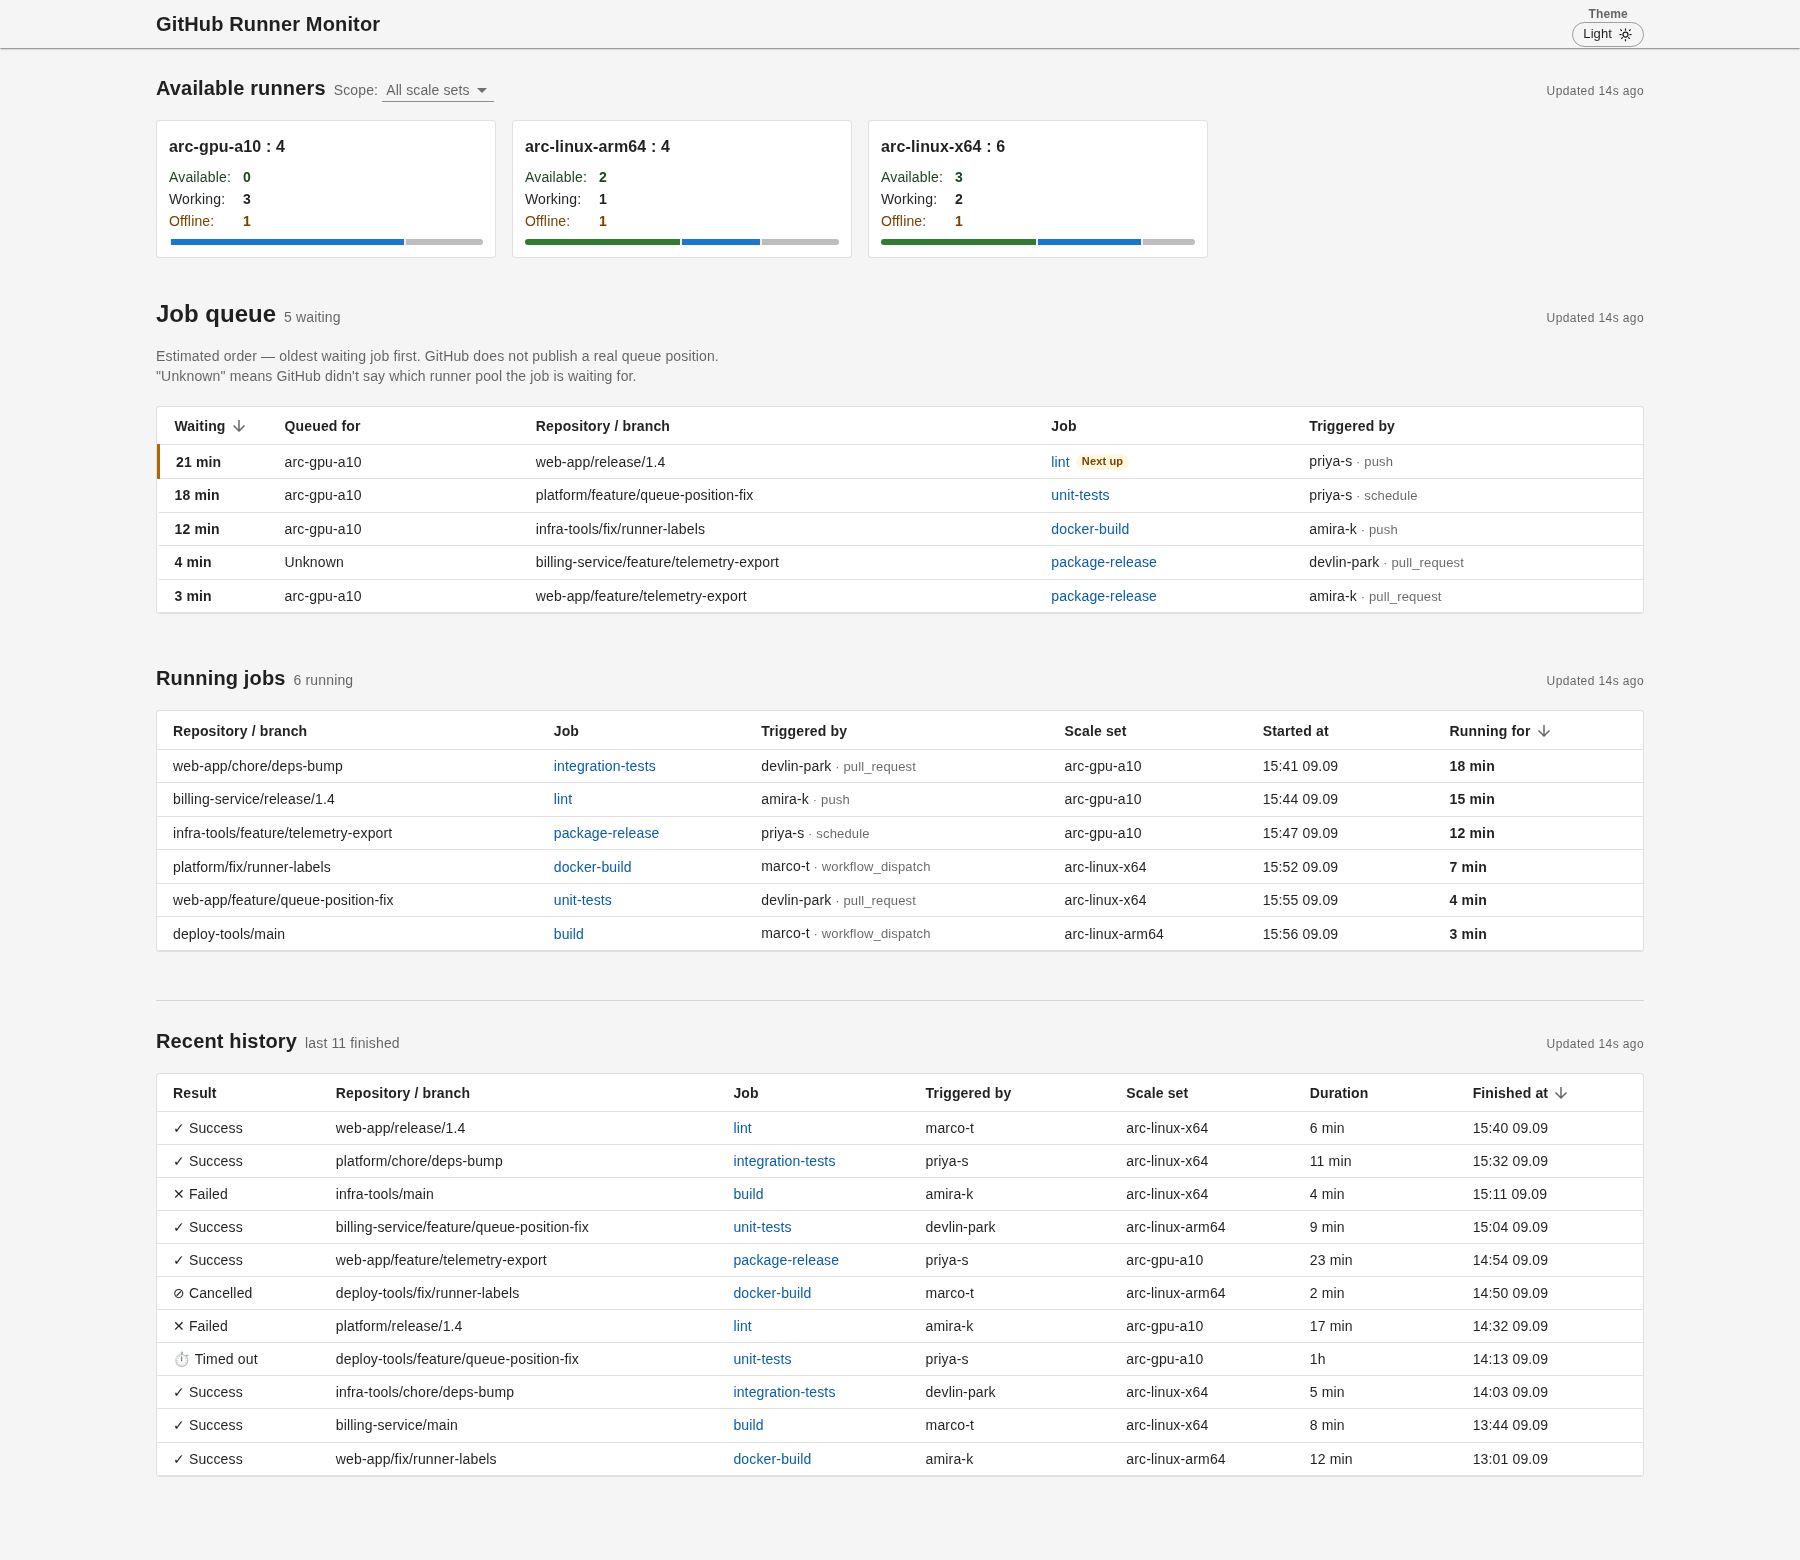
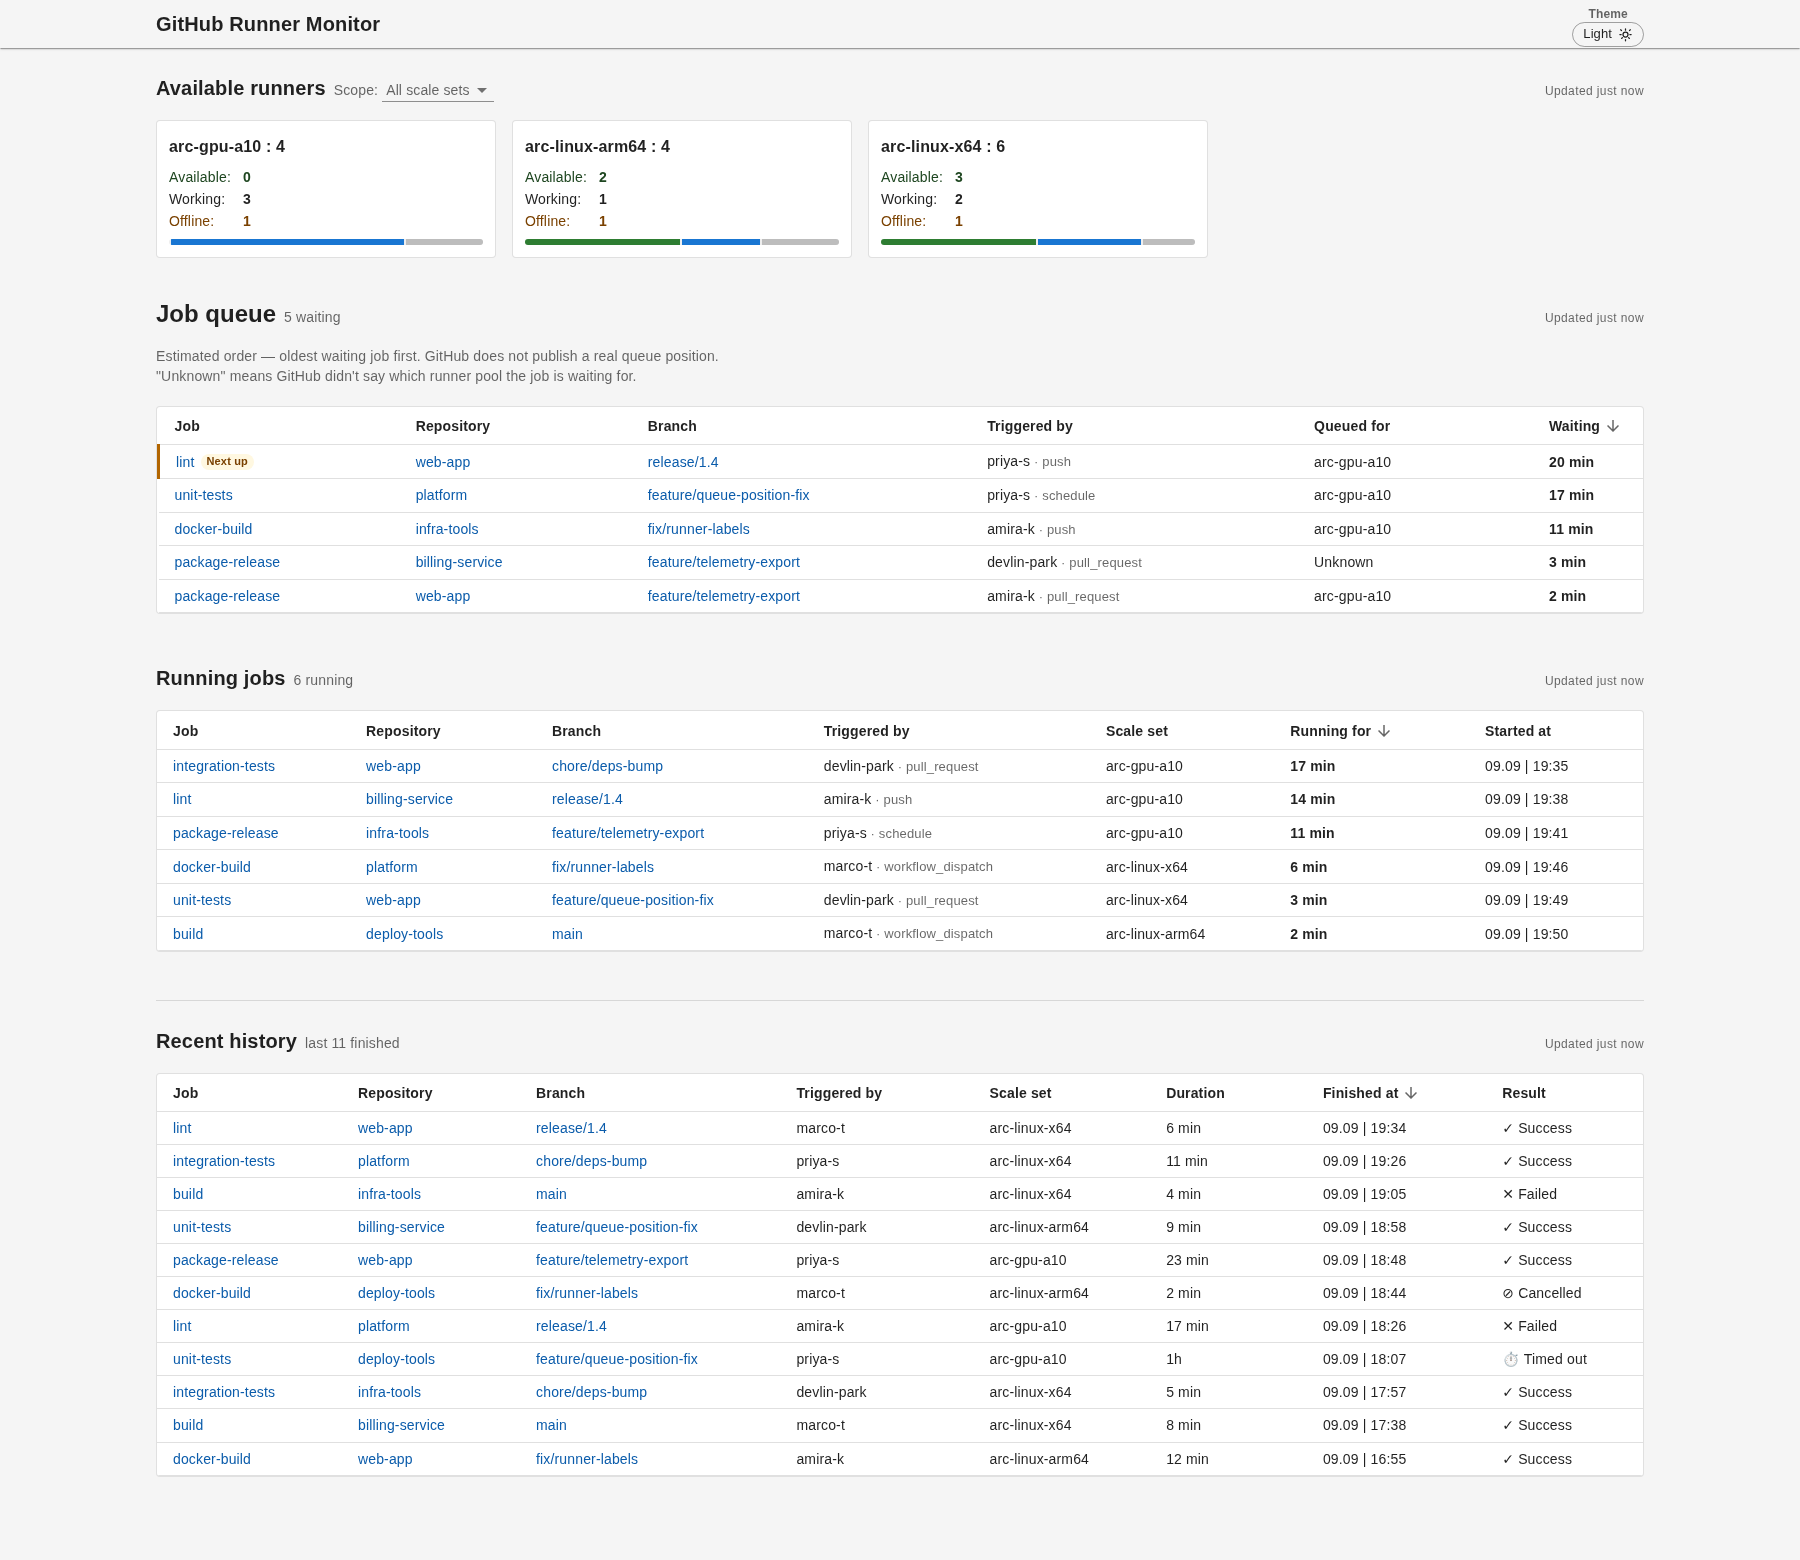
improving UI

diff --git a/code/frontend/src/components/RunningSection.tsx b/code/frontend/src/components/RunningSection.tsx
@@ -13,9 +13,9 @@ import {
 import { RunningJob } from '../types/api';
 import {
   formatCompactDuration,
+  formatDateThenTime,
   formatDuration,
   formatFullTimestamp,
-  formatShortDateTime,
   parseTimestamp,
 } from '../utils/format';
 import { MISSING_TEXT, orUnknown } from '../utils/labels';
@@ -227,7 +227,7 @@ const RunningSection: React.FC<RunningSectionProps> = ({
                       title={startedAt ? formatFullTimestamp(startedAt) : undefined}
                       sx={{ whiteSpace: 'nowrap' }}
                     >
-                      {startedAt ? formatShortDateTime(startedAt) : MISSING_TEXT}
+                      {startedAt ? formatDateThenTime(startedAt) : MISSING_TEXT}
                     </TableCell>
                   </TableRow>
                 );

diff --git a/code/frontend/src/App.test.tsx b/code/frontend/src/App.test.tsx
@@ -312,6 +312,13 @@ describe('App dashboard', () => {
     expect(rowsOf(/job history/i)[1]).toMatch(/\d{2}\.\d{2} \| \d{2}:\d{2}/);
   });
 
+  test('a running job carries the date and then the clock time', async () => {
+    renderApp();
+    await screen.findByRole('table', { name: /running jobs/i });
+
+    expect(rowsOf(/running jobs/i)[1]).toMatch(/\d{2}\.\d{2} \| \d{2}:\d{2}/);
+  });
+
   test('the runner card is a header with the total and the three states stacked under it', async () => {
     renderApp();
     await screen.findByRole('table', { name: /job queue/i });
